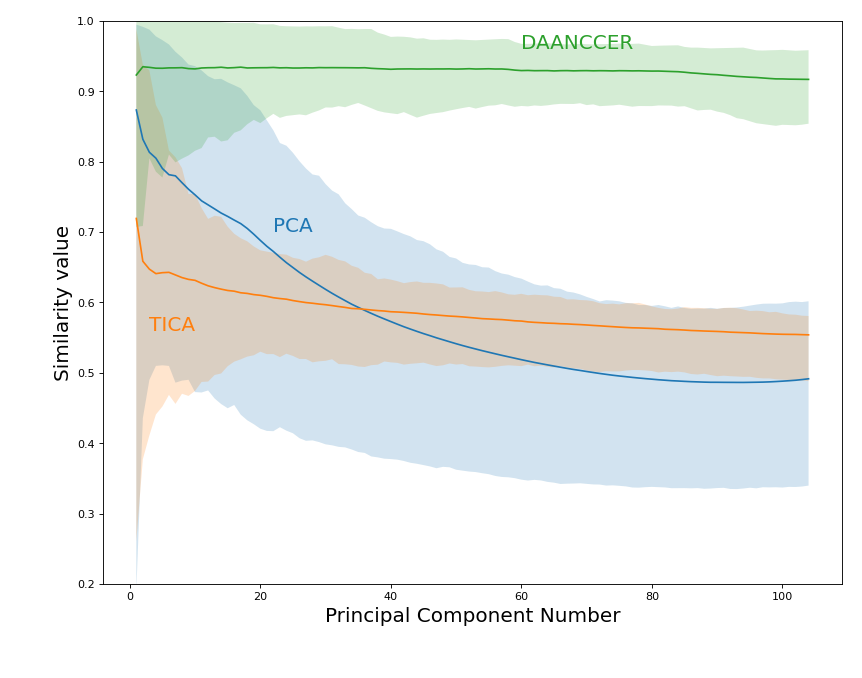
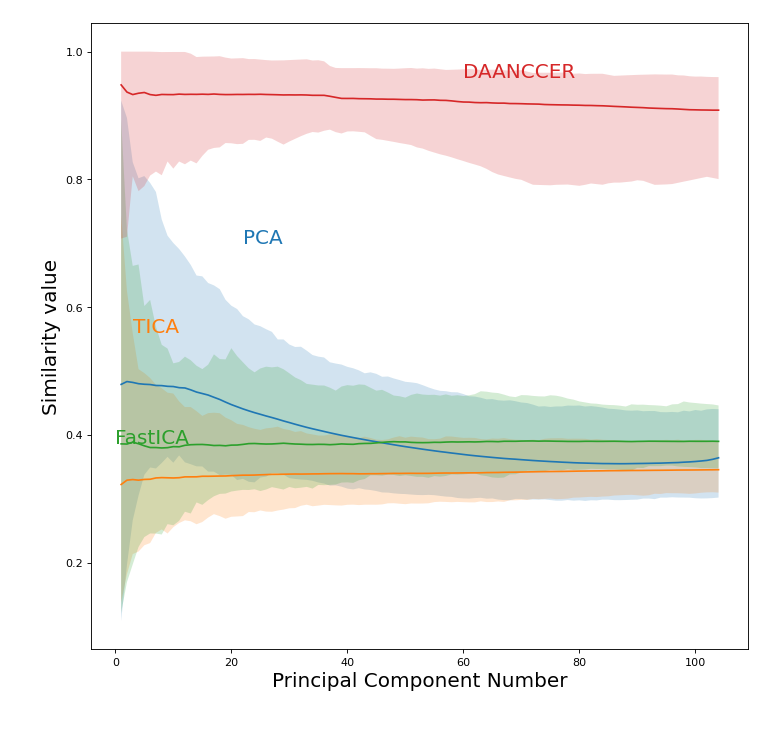
Sub-Dataset runs, Reconstruction Error, adding ICA to the plots

diff --git a/trajectory.py b/trajectory.py
@@ -1,3 +1,4 @@
+import random
 import warnings
 from pathlib import Path
 
@@ -6,7 +7,7 @@ import numpy as np
 from mdtraj import Trajectory
 from sklearn.decomposition import FastICA, PCA
 
-from utils.algorithms.interfaces import DeeptimeTICAInterface, PyemmaTICAInterface, PyemmaPCAInterface
+from utils.algorithms.interfaces import DeeptimeTICAInterface, PyemmaTICAInterface, PyemmaPCAInterface, ICA
 from utils.algorithms.tensor_dim_reductions.daanccer import DAANCCER
 from utils.algorithms.tsne import MyTSNE, MyTimeLaggedTSNE
 from utils.errors import InvalidSubsetTrajectory
@@ -35,7 +36,7 @@ class TrajectoryFile:
 
 class ProteinTrajectory(TrajectoryFile):
     def __init__(self, filename, topology_filename=None, folder_path='data/2f4k', params=None, atoms=None):
-        super().__init__(filename, topology_filename, folder_path) #ODS: topology_filename not needed. Suggestion: Parent class data_file
+        super().__init__(filename, topology_filename, folder_path)
         try:
             print(f"Loading trajectory {self.filename}...")
             if str(self.filename).endswith('dcd'):
@@ -43,13 +44,14 @@ class ProteinTrajectory(TrajectoryFile):
             else:
                 self.traj: Trajectory = md.load(self.filepath, top=self.topology_path, atom_indices=atoms)
             self.reference_pdb = md.load_pdb(self.topology_path, atom_indices=atoms)
-            # self.traj: Trajectory = self.traj.superpose(self.traj).center_coordinates(mass_weighted=True)
-            self.traj: Trajectory = self.traj.superpose(self.reference_pdb).center_coordinates(mass_weighted=True)
-            self.traj.xyz = (self.traj.xyz - np.mean(self.traj.xyz, axis=0)[np.newaxis, :, :]) / np.std(self.traj.xyz,
-                                                                                                        axis=0)
             self.dim: dict = {TIME_FRAMES: self.traj.xyz.shape[TIME_DIM],
                               ATOMS: self.traj.xyz.shape[ATOM_DIM],
                               COORDINATES: self.traj.xyz.shape[COORDINATE_DIM]}
+            self.traj: Trajectory = self.traj.superpose(
+                self.traj, frame=random.randint(0, self.dim[TIME_FRAMES])).center_coordinates(mass_weighted=True)
+            # self.traj: Trajectory = self.traj.superpose(self.reference_pdb).center_coordinates(mass_weighted=True)
+            self.traj.xyz = (self.traj.xyz - np.mean(self.traj.xyz, axis=0)[np.newaxis, :, :]) / np.std(self.traj.xyz,
+                                                                                                        axis=0)
             self.phi: np.ndarray = md.compute_phi(self.traj)
             self.psi: np.ndarray = md.compute_psi(self.traj)
         except IOError:
@@ -64,7 +66,7 @@ class ProteinTrajectory(TrajectoryFile):
             N_COMPONENTS: params.get(N_COMPONENTS, 2),
             BASIS_TRANSFORMATION: params.get(BASIS_TRANSFORMATION, False),
             RANDOM_SEED: params.get(RANDOM_SEED, 42),
-            USE_ANGLES: params.get(USE_ANGLES, True),
+            USE_ANGLES: params.get(USE_ANGLES, False),
             TRAJECTORY_NAME: params.get(TRAJECTORY_NAME, 'Not Found')
         }
 
@@ -139,6 +141,7 @@ class ProteinTrajectory(TrajectoryFile):
         """
         model, projection = self.get_model_and_projection(model_parameters, log=log)
         try:
+            # TODO: Explained Variance not correctly calculated
             ex_var = explained_variance(model.explained_variance_, self.params[N_COMPONENTS])
         except AttributeError as e:
             warnings.warn(str(e))
@@ -188,7 +191,7 @@ class ProteinTrajectory(TrajectoryFile):
                     return tsne, tsne.fit_transform(inp)
                 elif model_parameters[ALGORITHM_NAME] == 'original_ica':
                     # TODO: Build interface for ICA
-                    ica = FastICA(n_components=self.params[N_COMPONENTS])
+                    ica = ICA(n_components=self.params[N_COMPONENTS])
                     return ica, ica.fit_transform(inp)
                 else:
                     warnings.warn(f'No original algorithm was found with name: {model_parameters[ALGORITHM_NAME]}')
@@ -281,11 +284,15 @@ class ProteinTrajectory(TrajectoryFile):
 
 
 class TrajectorySubset(ProteinTrajectory):
-    def __init__(self, quantity=1, time_window_size=None, **kwargs):
+    def __init__(self,
+                 quantity: int = 1,
+                 time_window_size: int = None,
+                 part_count: int = None,
+                 **kwargs):
         self.quantity = quantity
         self.time_window_size = time_window_size
         self.rest = 0
-        self.part_count = None
+        self.part_count = part_count
         super().__init__(**kwargs)
 
     def _check_init_params(self):
@@ -306,15 +313,11 @@ class TrajectorySubset(ProteinTrajectory):
                 self.time_window_size = self.dim[TIME_FRAMES]
                 warnings.warn(f'The subset of the trajectory is the same as the actual trajectory.')
 
-            if self.dim[TIME_FRAMES] > self.time_window_size:
+            if self.dim[TIME_FRAMES] < self.time_window_size:
                 raise InvalidSubsetTrajectory(f'The time window size `{self.time_window_size}` is invalid '
                                               f'for the trajectory with time steps `{self.dim[TIME_FRAMES]}`')
             self.rest = self.dim[TIME_FRAMES] % self.time_window_size
             self.quantity = self.dim[TIME_FRAMES] // self.time_window_size
-
-    @property
-    def _has_no_rest(self):
-        return self.rest == 0
 
     def get_sub_results(self, model_parameters: dict) -> list:
         results = []
@@ -334,9 +337,10 @@ class TrajectorySubset(ProteinTrajectory):
         if self.part_count is None:
             return whole_input_data
         elif self.part_count == self.quantity - 1:
-            return whole_input_data[-(self.time_window_size+self.rest):]
+            return whole_input_data[-(self.time_window_size + self.rest):]
         else:
-            return whole_input_data[(self.part_count*self.time_window_size):(self.part_count+1)*self.time_window_size]
+            return whole_input_data[
+                   (self.part_count * self.time_window_size):(self.part_count + 1) * self.time_window_size]
 
 
 class TopologyConverter(TrajectoryFile):

diff --git a/main.py b/main.py
@@ -44,35 +44,29 @@ def run(kwargs: dict, model_params_list: list, filename_list: list):
     """
     params = kwargs[PARAMS]
     run_option = params[RUN_OPTION]
+    data_class = config.get_data_class(params, kwargs)
     if run_option == 'covert_to_pdb':
         kwargs = {FILENAME: 'protein.xtc', TOPOLOGY_FILENAME: 'protein.gro',
                   GOAL_FILENAME: 'protein.pdb', FOLDER_PATH: 'data/ser-tr'}
         tc = TopologyConverter(**kwargs)
         tc.convert()
     elif run_option == PLOT_WITH_SLIDER:
-        tr = ProteinTrajectory(**kwargs)
-        TrajectoryPlotter(tr, standardize=True).data_with_timestep_slider(min_max=None)  # [0, 1000]
+        TrajectoryPlotter(data_class, standardize=True).data_with_timestep_slider(min_max=None)  # [0, 1000]
     elif run_option == PLOT_RECONSTRUCTED_WITH_SLIDER:
-        tr = ProteinTrajectory(**kwargs)
-        TrajectoryPlotter(tr, reconstruct_params=model_params_list[1]).data_with_timestep_slider()
+        TrajectoryPlotter(data_class, reconstruct_params=model_params_list[1]).data_with_timestep_slider()
     elif run_option == COMPARE:
         if params[N_COMPONENTS] != 2:
             raise ValueError(f'The parameter `{N_COMPONENTS}` has to be 2, but it\'s {params[N_COMPONENTS]}.')
-        tr = ProteinTrajectory(**kwargs)
-        SingleTrajectoryAnalyser(tr, params).compare(model_params_list)
+        SingleTrajectoryAnalyser(data_class, params).compare(model_params_list)
     elif run_option == COMPARE_WITH_CA_ATOMS:
-        tr = ProteinTrajectory(**kwargs)
-        SingleTrajectoryAnalyser(tr, params).compare_with_carbon_alpha_and_all_atoms(model_params_list)
+        SingleTrajectoryAnalyser(data_class, params).compare_with_carbon_alpha_and_all_atoms(model_params_list)
     elif run_option == BASE_TRANSFORMATION:
-        tr = ProteinTrajectory(**kwargs)
-        SingleTrajectoryAnalyser(tr, params).compare_with_basis_transformation(model_params_list)
+        SingleTrajectoryAnalyser(data_class, params).compare_with_basis_transformation(model_params_list)
     elif run_option == PARAMETER_GRID_SEARCH:
         param_grid = config.get_param_grid()
-        tr = ProteinTrajectory(**kwargs)
-        SingleTrajectoryAnalyser(tr, params).grid_search(param_grid)
+        SingleTrajectoryAnalyser(data_class, params).grid_search(param_grid)
     elif run_option == TRAJECTORY_SUBSET_ANALYSIS:
-        sub_tr = TrajectorySubset(quantity=params[QUANTITY], time_window_size=params[TIME_WINDOW_SIZE], **kwargs)
-        SingleTrajectoryAnalyser(sub_tr, params).compare_trajectory_subsets(model_params_list)
+        SingleTrajectoryAnalyser(data_class, params).compare_trajectory_subsets(model_params_list)
     elif run_option.startswith(MULTI):
         run_multi_analyse(filename_list, model_params_list, kwargs)
     else:

diff --git a/analyse.py b/analyse.py
@@ -13,8 +13,9 @@ from sklearn.metrics.pairwise import cosine_similarity
 from sklearn.model_selection import GridSearchCV
 from tqdm import tqdm
 
+from config import get_data_class
 from plotter import ArrayPlotter, MultiTrajectoryPlotter, ModelResultPlotter
-from trajectory import ProteinTrajectory, TrajectorySubset
+from trajectory import ProteinTrajectory, TrajectorySubset, TrajectoryFile
 from utils import statistical_zero, get_algorithm_name
 from utils.algorithms.tensor_dim_reductions.daanccer import DAANCCER
 from utils.errors import InvalidReconstructionException, InvalidProteinTrajectory
@@ -140,8 +141,8 @@ class SingleTrajectoryAnalyser:
 
 
 class MultiTrajectoryAnalyser:
-    def __init__(self, kwargs_list, params):
-        self.trajectories: list[ProteinTrajectory] = [ProteinTrajectory(**kwargs) for kwargs in kwargs_list]
+    def __init__(self, kwargs_list: list, params: dict):
+        self.trajectories: list[TrajectoryFile] = [get_data_class(params, kwargs) for kwargs in kwargs_list]
         print(f'Trajectories loaded time: {datetime.now()}')
         self.params: dict = {
             N_COMPONENTS: params.get(N_COMPONENTS, 2),
@@ -166,7 +167,8 @@ class MultiTrajectoryAnalyser:
                 principal_components.append(res['model'].components_)
             pcs = np.asarray(principal_components)
             MultiTrajectoryPlotter(
-                interactive=self.params[INTERACTIVE]
+                interactive=self.params[INTERACTIVE],
+                for_paper=self.params[PLOT_FOR_PAPER]
             ).plot_principal_components(model_parameters, pcs, self.params[N_COMPONENTS])
 
     def _get_trajectories_by_index(self, traj_nrs: [list[int], None]):
@@ -325,7 +327,7 @@ class MultiTrajectoryAnalyser:
                 title_prefix=f'Eigenvector Similarities',
                 x_label='Principal Component Number',
                 y_label='Similarity value',
-                y_range=(0.2, 1),
+                # y_range=(0.2, 1),
                 for_paper=self.params[PLOT_FOR_PAPER]
             ).plot_merged_2ds(model_similarities, error_band=similarity_error_bands)
 
@@ -395,8 +397,8 @@ class MultiTrajectoryAnalyser:
                 input_data = trajectory.data_input(model_dict[INPUT_PARAMS])
                 score = self._get_reconstruction_score(model, input_data, matrix_projection)
                 score_list.append(score)
-            score_list = np.asarray(score_list)
-            model_scores[model_description] = score_list
+            score_ndarray = np.asarray(score_list)
+            model_scores[model_description] = score_ndarray
 
         # model_scores = pretify_dict_model(model_scores)
         ArrayPlotter(

diff --git a/config.py b/config.py
@@ -1,7 +1,7 @@
 import json
 import warnings
-from operator import itemgetter
 
+from trajectory import ProteinTrajectory, TrajectorySubset, TrajectoryFile
 from utils.param_keys import *
 from utils.param_keys.analyses import *
 from utils.param_keys.kernel_functions import *
@@ -167,3 +167,25 @@ def get_param_grid(param_grid_json_file: str = None) -> list:
                 ABS_EVAL_SORT: [False, True]
             }
         ]
+
+
+def get_data_class(params: dict, kwargs: dict) -> TrajectoryFile:
+    if DATA_SET in params.keys():
+        data_set_name: str = params[DATA_SET]
+
+        if data_set_name.startswith('sub'):
+            if QUANTITY in params.keys():
+                kwargs[QUANTITY] = params[QUANTITY]
+            if TIME_WINDOW_SIZE in params.keys():
+                kwargs[TIME_WINDOW_SIZE] = params[TIME_WINDOW_SIZE]
+            if PART_COUNT in params.keys():
+                kwargs[PART_COUNT] = params[PART_COUNT]
+
+        # TODO @Andrea: return climate data class
+        #  if data_set_name == 'climate' and equally 'sub_climate'
+        if data_set_name == "sub_protein":
+            return TrajectorySubset(**kwargs)
+        else:
+            return ProteinTrajectory(**kwargs)
+    else:
+        return ProteinTrajectory(**kwargs)

diff --git a/utils/algorithms/interfaces.py b/utils/algorithms/interfaces.py
@@ -1,6 +1,9 @@
+import numpy as np
 from deeptime.decomposition import TICA as DTICA
 from pyemma.coordinates.transform.tica import TICA
-from pyemma.coordinates.transform.pca import PCA
+from pyemma.coordinates.transform.pca import PCA as pPCA
+from sklearn.decomposition import PCA
+from sklearn.decomposition import FastICA
 
 
 class DeeptimeTICAInterface(DTICA):
@@ -50,7 +53,7 @@ class PyemmaTICAInterface(TICA):
         return self.mean
 
 
-class PyemmaPCAInterface(PCA):
+class PyemmaPCAInterface(pPCA):
     __serialize_version = 0
 
     def __str__(self):
@@ -74,3 +77,20 @@ class PyemmaPCAInterface(PCA):
     @property
     def mean_(self):
         return self.mean
+
+
+class ICA(FastICA):
+    def __init__(self, **kwargs):
+        super().__init__(**kwargs)
+        self.explained_variance_ = np.zeros(self.n_components)
+
+    def __str__(self):
+        return f'ICA(n_components={self.n_components})'
+
+    # noinspection PyPep8Naming
+    def fit_transform(self, X, y=None):
+        fit_transformed = super().fit_transform(X, y)
+        pca = PCA()
+        pca.fit_transform(fit_transformed)
+        self.explained_variance_ = pca.explained_variance_
+        return fit_transformed

diff --git a/utils/param_keys/__init__.py b/utils/param_keys/__init__.py
@@ -4,6 +4,7 @@
 RUN_OPTION = 'run_option'
 TRAJECTORY_NAME = 'trajectory_name'
 FILE_ELEMENT = 'file_element'
+DATA_SET = 'data_set'
 SUBSET_LIST = 'subset_list'
 # Plot params
 PLOT_TYPE = 'plot_type'
@@ -22,6 +23,7 @@ MAIN_MODEL_PARAMS = 'main_model_params'
 # Subset Trajectory params
 QUANTITY = 'quantity'
 TIME_WINDOW_SIZE = 'time_window_size'
+PART_COUNT = 'part_count'
 
 # TODO: No name
 FILENAME = 'filename'

diff --git a/utils/param_keys/run_options.py b/utils/param_keys/run_options.py
@@ -4,6 +4,8 @@ PLOT_RECONSTRUCTED_WITH_SLIDER = 'plot_reconstructed_with_slider'
 COMPARE_WITH_CA_ATOMS = 'compare_with_carbon_alpha_atoms'
 BASE_TRANSFORMATION = 'base_transformation'
 PARAMETER_GRID_SEARCH = 'parameter_grid_search'
+
+# Sub-trajectory
 TRAJECTORY_SUBSET_ANALYSIS = 'trajectory_subset_analysis'
 
 # Load analyse
